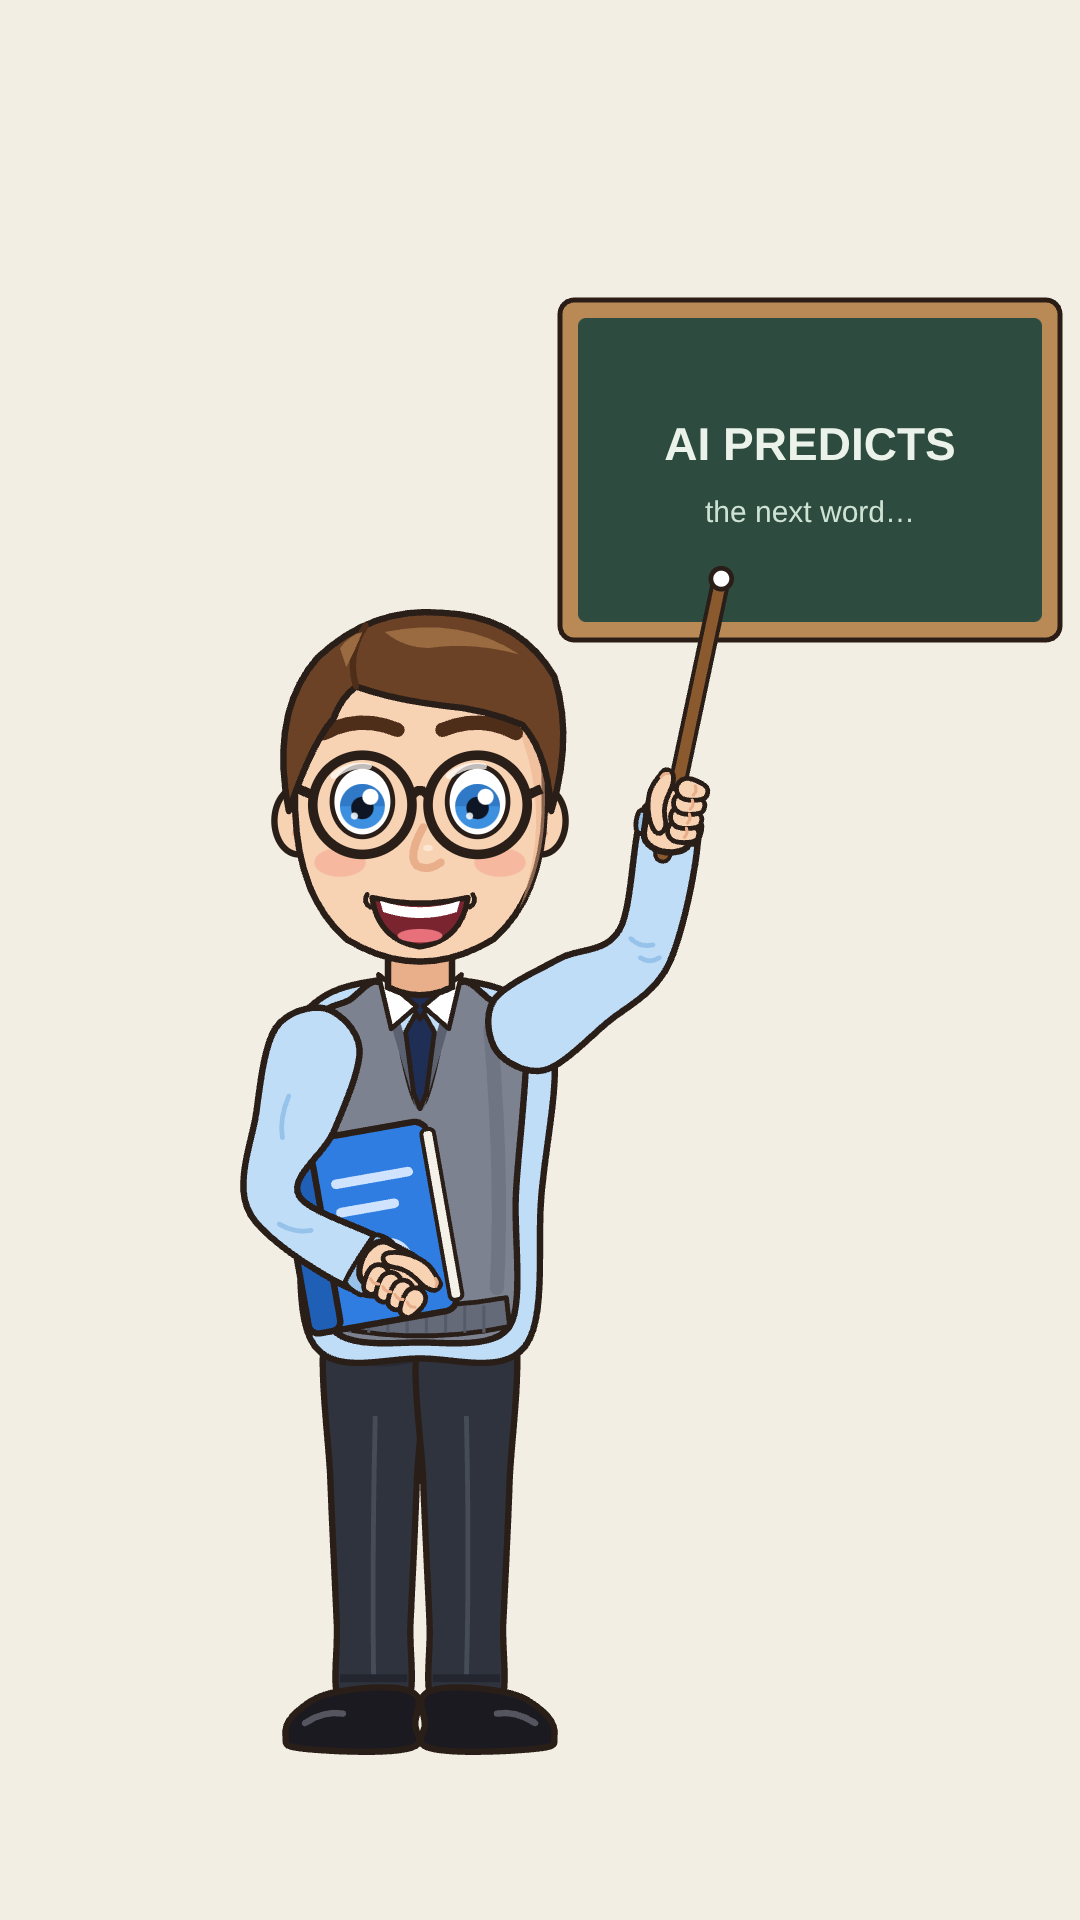
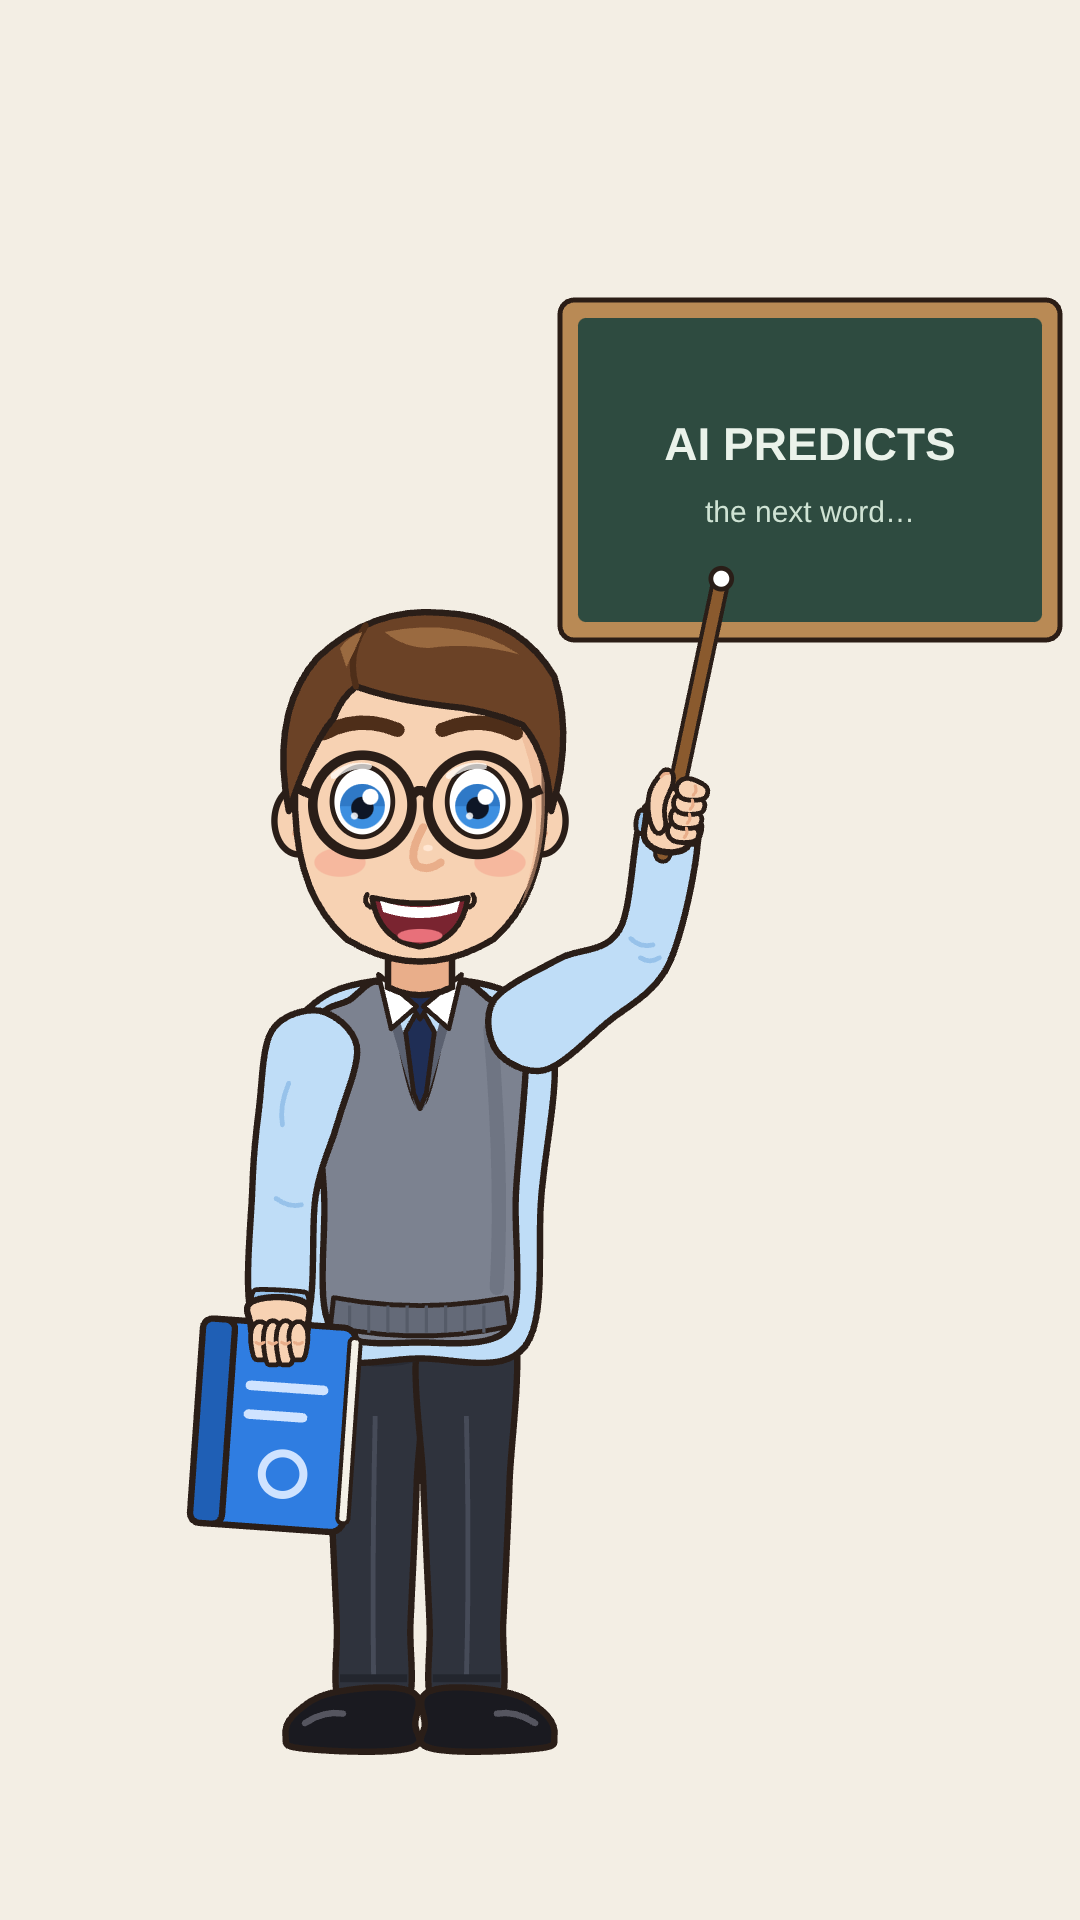
Teacher2D: carries the book at his side (natural hold)
Claude-Session: https://claude.ai/code/session_01PC9EcwkToj898wWDRviNT9

Changed region(s): [[0.1528, 0.5312, 0.4278, 0.8125]]

diff --git a/engine/src/Teacher2D.tsx b/engine/src/Teacher2D.tsx
@@ -102,7 +102,7 @@ const cuff = (ex: number, ey: number, wx: number, wy: number, r: number) => {
   const a = [wx - ux * 16, wy - uy * 16], b = [wx - ux * 2, wy - uy * 2];
   return smooth([[a[0] + nx * r, a[1] + ny * r], [b[0] + nx * (r + 1), b[1] + ny * (r + 1)], [b[0] - nx * (r + 1), b[1] - ny * (r + 1)], [a[0] - nx * r, a[1] - ny * r]], 0.15);
 };
-const BKX = 176, BKY = 470; // book-hand wrist
+const BKX = 112, BKY = 498; // book-hand wrist (arm relaxed at his side)
 /** Cartoon fist: local +x = forearm direction; fingers curl on +y, thumb on top (-y). */
 const Fist: React.FC<{ x: number; y: number; ang: number }> = ({ x, y, ang }) => (
   <g transform={`translate(${x} ${y}) rotate(${ang})`}>
@@ -119,6 +119,7 @@ const FACE = "M122 168 Q120 96 200 92 Q280 96 278 168 Q280 232 246 262 Q200 290 
 
 export const Teacher2D: React.FC<{ pose?: TeacherPose }> = ({ pose = {} }) => {
   const { talk = 0, blink = 0, brow = 0, headTilt = 0, point = 0, pointWiggle = 0, bob = 0, smile = 0.8, lookX = 0, hair = "sidepart" } = pose;
+  const bookSwing = Math.sin(bob * 0.8) * 1.5;
   const rad = (a: number) => (a * Math.PI) / 180;
   // pointing arm (viewer right): shoulder -> elbow -> wrist
   const sx = 262, sy = 322;
@@ -158,19 +159,26 @@ export const Teacher2D: React.FC<{ pose?: TeacherPose }> = ({ pose = {} }) => {
       <path d="M200 304 L191 320 L196 358 L200 368 L204 358 L209 320 Z" fill={TC.tie} stroke={TC.out} strokeWidth={3} strokeLinejoin="round" />
       <path d="M191 298 L200 312 L209 298 L205 291 L195 291 Z" fill={TC.tie} stroke={TC.out} strokeWidth={3} strokeLinejoin="round" />
       <path d="M174 284 L198 304 L182 318 Z M226 284 L202 304 L218 318 Z" fill={TC.white} stroke={TC.out} strokeWidth={3} strokeLinejoin="round" />
-      {/* ---------- book against the chest ---------- */}
-      <g transform="rotate(-10 168 440)">
-        <rect x={120} y={382} width={94} height={120} rx={8} fill={TC.book} {...O} />
-        <rect x={120} y={382} width={20} height={120} rx={6} fill={TC.bookSh} {...O} />
-        <rect x={210} y={388} width={8} height={108} rx={3} fill="#F4F1E8" stroke={TC.out} strokeWidth={2.5} />
-        <path d="M152 412 H198 M152 430 H186" stroke="#CFE3FF" strokeWidth={6} strokeLinecap="round" />
-        <circle cx={176} cy={466} r={13} fill="none" stroke="#CFE3FF" strokeWidth={5} />
+      {/* ---------- book arm: relaxed at his side, carrying the book by its top edge ---------- */}
+      <path d={armPath(134, 324, 116, 420, BKX, BKY)} fill={TC.shirt} {...O} />
+      <path d={cuff(116, 420, BKX, BKY, 16)} fill={TC.shirtSh} {...O} strokeWidth={3} />
+      <path d="M118 352 q-6 14 -4 26 M110 424 q8 6 16 4" stroke={TC.shirtSh} strokeWidth={3} fill="none" strokeLinecap="round" />
+      {/* the book hangs from his hand, cover facing us, slightly swinging */}
+      <g transform={`rotate(${4 + bookSwing} ${BKX} ${BKY + 14})`}>
+        <rect x={BKX - 48} y={BKY + 4} width={96} height={128} rx={8} fill={TC.book} {...O} />
+        <rect x={BKX - 48} y={BKY + 4} width={20} height={128} rx={6} fill={TC.bookSh} {...O} />
+        <rect x={BKX + 44} y={BKY + 10} width={7} height={116} rx={3} fill="#F4F1E8" stroke={TC.out} strokeWidth={2.5} />
+        <path d={`M${BKX - 16} ${BKY + 44} H${BKX + 30} M${BKX - 16} ${BKY + 62} H${BKX + 18}`} stroke="#CFE3FF" strokeWidth={6} strokeLinecap="round" />
+        <circle cx={BKX + 8} cy={BKY + 98} r={13} fill="none" stroke="#CFE3FF" strokeWidth={5} />
       </g>
-      {/* ---------- book arm: full sleeve hugging the book, fist gripping its right edge ---------- */}
-      <path d={armPath(136, 324, 110, 428, BKX, BKY)} fill={TC.shirt} {...O} />
-      <path d={cuff(110, 428, BKX, BKY, 17)} fill={TC.shirtSh} {...O} strokeWidth={3} />
-      <path d="M118 360 q-6 14 -4 26 M112 440 q10 6 20 4" stroke={TC.shirtSh} strokeWidth={3} fill="none" strokeLinecap="round" />
-      <Fist x={BKX + 10} y={BKY + 2} ang={(Math.atan2(BKY - 428, BKX - 110) * 180) / Math.PI} />
+      {/* hand: fingers in front of the cover, thumb behind */}
+      <g transform={`translate(${BKX} ${BKY + 8})`}>
+        <path d={smooth([[-16, -18], [14, -18], [18, -4], [12, 6], [-12, 6], [-18, -4]], 0.45)} fill={TC.skin} {...O} />
+        {[-12, -4, 4, 12].map((fx, i) => (
+          <path key={i} d={smooth([[fx - 4.5, -2], [fx + 4.5, -2], [fx + 4.8, 14 + (i === 1 || i === 2 ? 3 : 0)], [fx, 19 + (i === 1 || i === 2 ? 3 : 0)], [fx - 4.8, 14 + (i === 1 || i === 2 ? 3 : 0)]], 0.5)} fill={TC.skin} stroke={TC.out} strokeWidth={3} strokeLinejoin="round" />
+        ))}
+        {[-12, -4, 4, 12].map((fx, i) => <path key={`k${i}`} d={`M${fx - 2.5} 8 q2.5 2 5 0`} stroke={TC.skinSh} strokeWidth={2} fill="none" strokeLinecap="round" />)}
+      </g>
 
       {/* ---------- pointing arm ---------- */}
       <path d={armPath(sx, sy, elx, ely, hx, hy)} fill={TC.shirt} {...O} />

diff --git a/engine/src/build_t2d/Teacher2D.tsx b/engine/src/build_t2d/Teacher2D.tsx
@@ -102,7 +102,7 @@ const cuff = (ex: number, ey: number, wx: number, wy: number, r: number) => {
   const a = [wx - ux * 16, wy - uy * 16], b = [wx - ux * 2, wy - uy * 2];
   return smooth([[a[0] + nx * r, a[1] + ny * r], [b[0] + nx * (r + 1), b[1] + ny * (r + 1)], [b[0] - nx * (r + 1), b[1] - ny * (r + 1)], [a[0] - nx * r, a[1] - ny * r]], 0.15);
 };
-const BKX = 176, BKY = 470; // book-hand wrist
+const BKX = 112, BKY = 498; // book-hand wrist (arm relaxed at his side)
 /** Cartoon fist: local +x = forearm direction; fingers curl on +y, thumb on top (-y). */
 const Fist: React.FC<{ x: number; y: number; ang: number }> = ({ x, y, ang }) => (
   <g transform={`translate(${x} ${y}) rotate(${ang})`}>
@@ -119,6 +119,7 @@ const FACE = "M122 168 Q120 96 200 92 Q280 96 278 168 Q280 232 246 262 Q200 290 
 
 export const Teacher2D: React.FC<{ pose?: TeacherPose }> = ({ pose = {} }) => {
   const { talk = 0, blink = 0, brow = 0, headTilt = 0, point = 0, pointWiggle = 0, bob = 0, smile = 0.8, lookX = 0, hair = "sidepart" } = pose;
+  const bookSwing = Math.sin(bob * 0.8) * 1.5;
   const rad = (a: number) => (a * Math.PI) / 180;
   // pointing arm (viewer right): shoulder -> elbow -> wrist
   const sx = 262, sy = 322;
@@ -158,19 +159,26 @@ export const Teacher2D: React.FC<{ pose?: TeacherPose }> = ({ pose = {} }) => {
       <path d="M200 304 L191 320 L196 358 L200 368 L204 358 L209 320 Z" fill={TC.tie} stroke={TC.out} strokeWidth={3} strokeLinejoin="round" />
       <path d="M191 298 L200 312 L209 298 L205 291 L195 291 Z" fill={TC.tie} stroke={TC.out} strokeWidth={3} strokeLinejoin="round" />
       <path d="M174 284 L198 304 L182 318 Z M226 284 L202 304 L218 318 Z" fill={TC.white} stroke={TC.out} strokeWidth={3} strokeLinejoin="round" />
-      {/* ---------- book against the chest ---------- */}
-      <g transform="rotate(-10 168 440)">
-        <rect x={120} y={382} width={94} height={120} rx={8} fill={TC.book} {...O} />
-        <rect x={120} y={382} width={20} height={120} rx={6} fill={TC.bookSh} {...O} />
-        <rect x={210} y={388} width={8} height={108} rx={3} fill="#F4F1E8" stroke={TC.out} strokeWidth={2.5} />
-        <path d="M152 412 H198 M152 430 H186" stroke="#CFE3FF" strokeWidth={6} strokeLinecap="round" />
-        <circle cx={176} cy={466} r={13} fill="none" stroke="#CFE3FF" strokeWidth={5} />
+      {/* ---------- book arm: relaxed at his side, carrying the book by its top edge ---------- */}
+      <path d={armPath(134, 324, 116, 420, BKX, BKY)} fill={TC.shirt} {...O} />
+      <path d={cuff(116, 420, BKX, BKY, 16)} fill={TC.shirtSh} {...O} strokeWidth={3} />
+      <path d="M118 352 q-6 14 -4 26 M110 424 q8 6 16 4" stroke={TC.shirtSh} strokeWidth={3} fill="none" strokeLinecap="round" />
+      {/* the book hangs from his hand, cover facing us, slightly swinging */}
+      <g transform={`rotate(${4 + bookSwing} ${BKX} ${BKY + 14})`}>
+        <rect x={BKX - 48} y={BKY + 4} width={96} height={128} rx={8} fill={TC.book} {...O} />
+        <rect x={BKX - 48} y={BKY + 4} width={20} height={128} rx={6} fill={TC.bookSh} {...O} />
+        <rect x={BKX + 44} y={BKY + 10} width={7} height={116} rx={3} fill="#F4F1E8" stroke={TC.out} strokeWidth={2.5} />
+        <path d={`M${BKX - 16} ${BKY + 44} H${BKX + 30} M${BKX - 16} ${BKY + 62} H${BKX + 18}`} stroke="#CFE3FF" strokeWidth={6} strokeLinecap="round" />
+        <circle cx={BKX + 8} cy={BKY + 98} r={13} fill="none" stroke="#CFE3FF" strokeWidth={5} />
       </g>
-      {/* ---------- book arm: full sleeve hugging the book, fist gripping its right edge ---------- */}
-      <path d={armPath(136, 324, 110, 428, BKX, BKY)} fill={TC.shirt} {...O} />
-      <path d={cuff(110, 428, BKX, BKY, 17)} fill={TC.shirtSh} {...O} strokeWidth={3} />
-      <path d="M118 360 q-6 14 -4 26 M112 440 q10 6 20 4" stroke={TC.shirtSh} strokeWidth={3} fill="none" strokeLinecap="round" />
-      <Fist x={BKX + 10} y={BKY + 2} ang={(Math.atan2(BKY - 428, BKX - 110) * 180) / Math.PI} />
+      {/* hand: fingers in front of the cover, thumb behind */}
+      <g transform={`translate(${BKX} ${BKY + 8})`}>
+        <path d={smooth([[-16, -18], [14, -18], [18, -4], [12, 6], [-12, 6], [-18, -4]], 0.45)} fill={TC.skin} {...O} />
+        {[-12, -4, 4, 12].map((fx, i) => (
+          <path key={i} d={smooth([[fx - 4.5, -2], [fx + 4.5, -2], [fx + 4.8, 14 + (i === 1 || i === 2 ? 3 : 0)], [fx, 19 + (i === 1 || i === 2 ? 3 : 0)], [fx - 4.8, 14 + (i === 1 || i === 2 ? 3 : 0)]], 0.5)} fill={TC.skin} stroke={TC.out} strokeWidth={3} strokeLinejoin="round" />
+        ))}
+        {[-12, -4, 4, 12].map((fx, i) => <path key={`k${i}`} d={`M${fx - 2.5} 8 q2.5 2 5 0`} stroke={TC.skinSh} strokeWidth={2} fill="none" strokeLinecap="round" />)}
+      </g>
 
       {/* ---------- pointing arm ---------- */}
       <path d={armPath(sx, sy, elx, ely, hx, hy)} fill={TC.shirt} {...O} />
